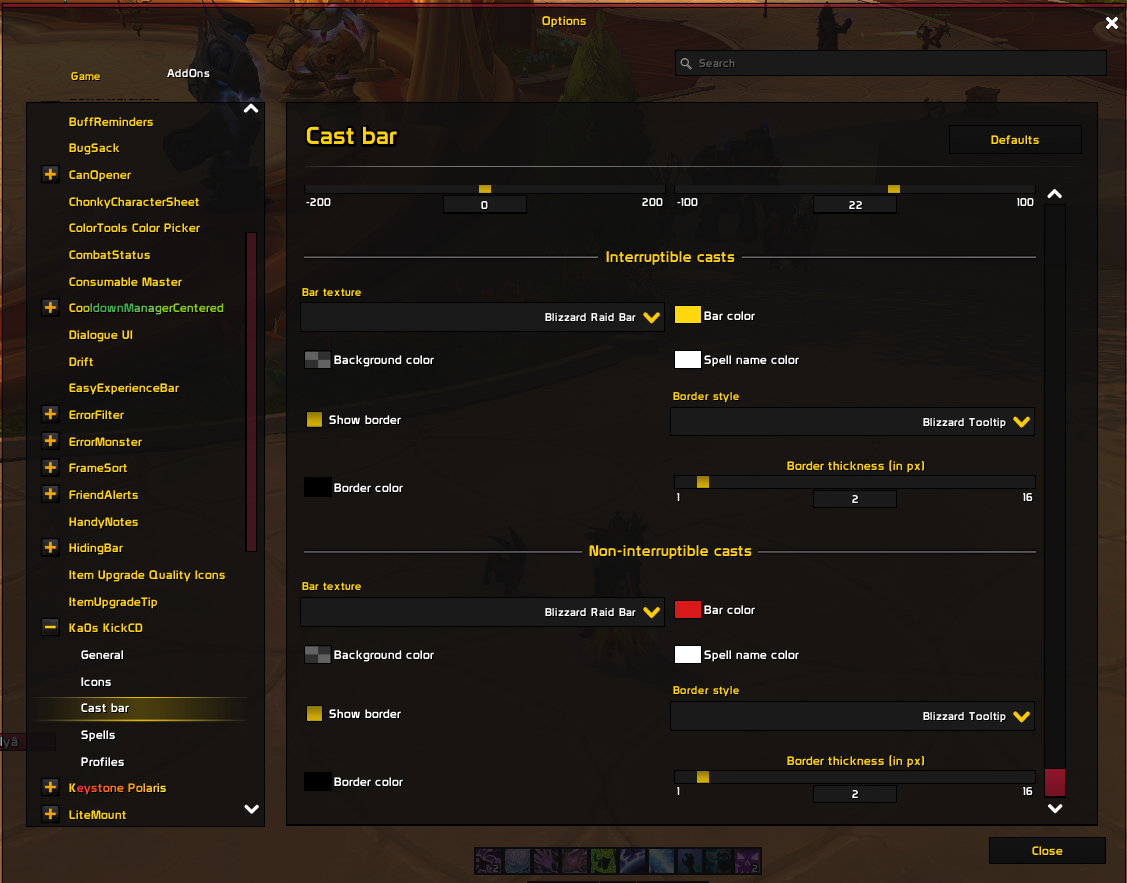
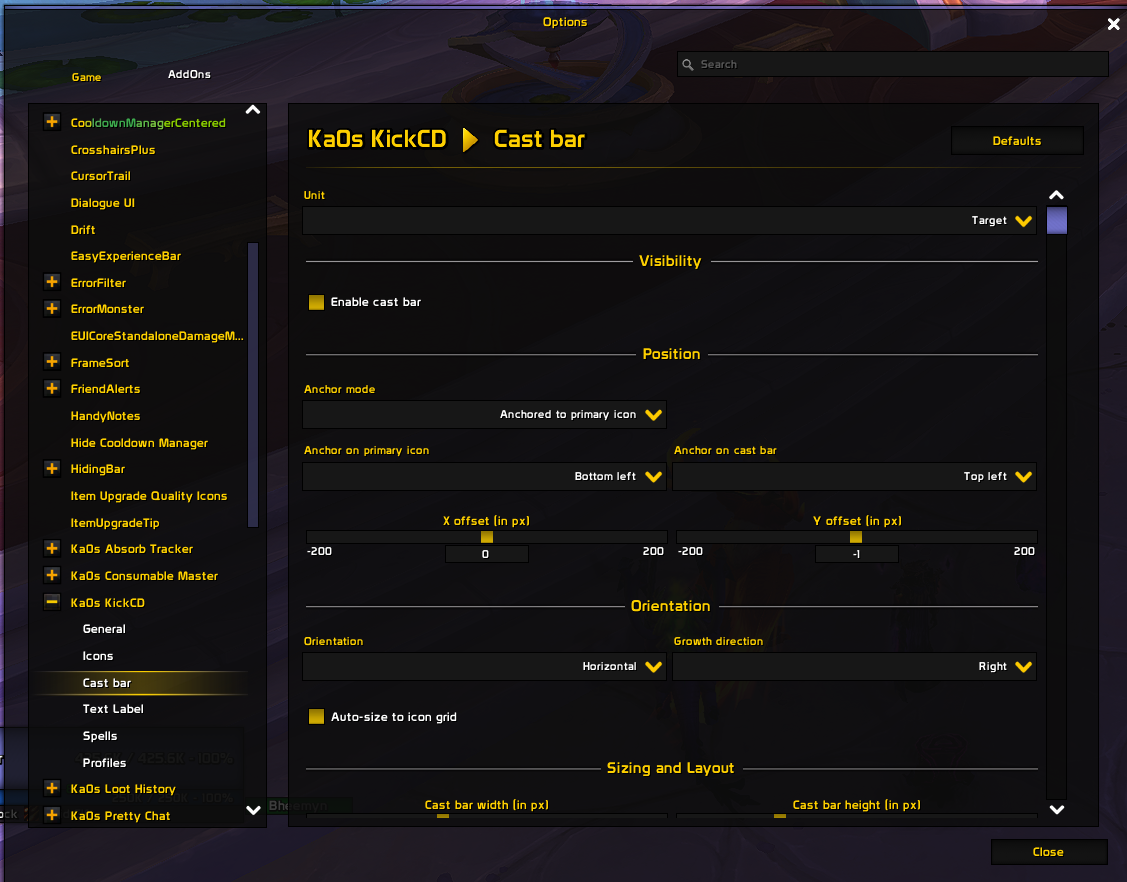
Docs: refresh README media — new demo video, YouTube link, updated screenshots
Swap the demo GIF for the v07 capture and add a YouTube link. Refresh
all settings-panel screenshots to the current UI, add a text-label panel
shot, and renumber the spells panel (05→06) to match. Point image links
at the new ForgeCDN attachments.

diff --git a/README.md b/README.md
@@ -29,27 +29,26 @@ Set everything up in the Blizzard settings panel (under **Ka0s KickCD**) or with
 
 **_Addon in action_**
 
-![alt text](https://media.forgecdn.net/attachments/1659/619/kickcd-video-04-compressed-gif.gif)
+![alt text](https://i.ibb.co/8LSRBj0n/kickcd-video-07-compressed.gif)
+
+_[Watch on YouTube](https://youtu.be/-rUhkVdmZfo)_
+
 
 **_Zoomed in view of the icon grid and cast bar_**
 
-![alt text](https://media.forgecdn.net/attachments/1659/603/kickcd-image-01-addon-png.png)
+![alt text](https://media.forgecdn.net/attachments/1806/482/kickcd-image-01-addon-png.png)
 
-**_General settings panel_**
+**_Settings panel_**
 
-![alt text](https://media.forgecdn.net/attachments/1659/604/kickcd-image-02-general-png.png)
+![alt text](https://media.forgecdn.net/attachments/1806/483/kickcd-image-02-general-png.png)
 
-**_Icons setting panel_**
+![alt text](https://media.forgecdn.net/attachments/1806/484/kickcd-image-03-icons-png.png)
 
-![alt text](https://media.forgecdn.net/attachments/1659/605/kickcd-image-03-icons-png.png)
+![alt text](https://media.forgecdn.net/attachments/1806/485/kickcd-image-04-castbar-png.png)
 
-**_Castbar settings panel_**
+![alt text](https://media.forgecdn.net/attachments/1806/486/kickcd-image-05-textlabel-png.png)
 
-![alt text](https://media.forgecdn.net/attachments/1659/606/kickcd-image-04-castbar-png.png)
-
-**_Spells settings panel_**
-
-![alt text](https://media.forgecdn.net/attachments/1659/607/kickcd-image-05-spells-png.png)
+![alt text](https://media.forgecdn.net/attachments/1806/487/kickcd-image-06-spells-png.png)
 
 ## Usage
 
